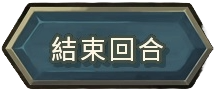
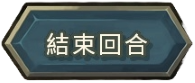
能量、回合

diff --git a/windowDemo.java b/windowDemo.java
@@ -31,6 +31,7 @@ public class windowDemo extends JFrame {
     private JLabel monsterhpNumber;
     private JLabel nextLabel;
     private JLabel energyLabel;
+    private JLabel energyNumber;
     private int[] pass =  new int[4];
     private Point initialClick;
     private Point initialPosition;
@@ -45,6 +46,8 @@ public class windowDemo extends JFrame {
     private JLabel deckNumber;
     private int HP = 80;
     private int monsterHP = 20;
+    private int energy;
+    private int round = 0;
     public windowDemo() {
         init();
     }
@@ -169,56 +172,12 @@ public class windowDemo extends JFrame {
                     hideIcon();
                     iconLabel1.setIcon(new ImageIcon("image/icon1_new.png"));
                     //關卡內容
-                    monsterLabel = new JLabel(new ImageIcon("image/monster1.png"));
-                    monsterLabel.setBounds(1050, 100, 400, 400);
-                    getLayeredPane().add(monsterLabel, new Integer(Integer.MIN_VALUE + 3));
-
-                    manLabel = new JLabel(new ImageIcon("image/fighter.png"));
-                    manLabel.setBounds(45, 95, 500, 500);
-                    getLayeredPane().add(manLabel, new Integer(Integer.MIN_VALUE + 3));
-
-                    discardDeckNumber = new JLabel(discardDeck + "");
-                    discardDeckNumber.setFont(new Font("Arial", Font.BOLD, 25));
-                    discardDeckNumber.setForeground(Color.WHITE);
-                    getLayeredPane().add(discardDeckNumber, new Integer(Integer.MIN_VALUE + 4));
-                    discardDeckNumber.setBounds(1325, 767, 50, 50);
-
-                    discardDeckLabel = new JLabel(new ImageIcon("image/棄牌堆.png"));
-                    discardDeckLabel.setBounds(1300, 700, 156, 133);
-                    getLayeredPane().add(discardDeckLabel, new Integer(Integer.MIN_VALUE + 3));
-
-                    deckLabel = new JLabel(new ImageIcon("image/牌堆.png"));
-                    deckLabel.setBounds(10, 700, 148, 135);
-                    getLayeredPane().add(deckLabel, new Integer(Integer.MIN_VALUE + 3));
-                    
-                    deckNumber = new JLabel((attackNumber + defendNumber + bashNumber + muscleNumber) + "");
-                    deckNumber.setFont(new Font("Arial", Font.BOLD, 25));
-                    deckNumber.setForeground(Color.WHITE);
-                    getLayeredPane().add(deckNumber, new Integer(Integer.MIN_VALUE + 4));
-                    deckNumber.setBounds(113, 767, 50, 50);
-
-                    hpLabel = new JLabel(new ImageIcon("image/hp.png"));
-                    hpLabel.setBounds(180, 500, 289, 20);
-                    getLayeredPane().add(hpLabel, new Integer(Integer.MIN_VALUE + 3));
-
-                    hpNumber = new JLabel(HP + "/80");
-                    hpNumber.setFont(new Font("Arial", Font.BOLD, 25));
-                    hpNumber.setForeground(Color.WHITE);
-                    getLayeredPane().add(hpNumber, new Integer(Integer.MIN_VALUE + 4));
-                    hpNumber.setBounds(290, 485, 120, 50);
-
-                    monsterhpLabel = new JLabel(new ImageIcon("image/hp.png"));
-                    monsterhpLabel.setBounds(1120, 500, 289, 20);
-                    getLayeredPane().add(monsterhpLabel, new Integer(Integer.MIN_VALUE + 3));
-
-                    monsterhpNumber = new JLabel(monsterHP + "/20");
-                    monsterhpNumber.setFont(new Font("Arial", Font.BOLD, 25));
-                    monsterhpNumber.setForeground(Color.WHITE);
-                    getLayeredPane().add(monsterhpNumber, new Integer(Integer.MIN_VALUE + 4));
-                    monsterhpNumber.setBounds(1230, 485, 120, 50);
+                    energy = 3;
+                    callAllLabel();
 
                     deck = showRandomCards();
                     deckNumber.setText(deck + "");
+                    nextRound();
 
                     //
                     pass[0] = 1;
@@ -417,7 +376,7 @@ public class windowDemo extends JFrame {
             JLabel cardLabel = new JLabel(new ImageIcon(cards.get(i))); //手牌
             String cardType = cards.get(i);
             moveObject(cardLabel, cardType);
-            cardLabel.setBounds(170 + i * 210, getScreenHeight() - 330, 220, 288); // 设置卡片位置和大小
+            cardLabel.setBounds(190 + i * 210, getScreenHeight() - 330, 220, 288); // 设置卡片位置和大小
             this.getLayeredPane().add(cardLabel, new Integer(Integer.MIN_VALUE + 4));
             cardLabels.add(cardLabel);
             cardTypes.add(cardType);
@@ -426,7 +385,80 @@ public class windowDemo extends JFrame {
         cardPanel.repaint();
         return cards.size();
     }
+    @SuppressWarnings("removal")
+    private void callAllLabel(){
+        monsterLabel = new JLabel(new ImageIcon("image/monster1.png"));  //怪物
+        monsterLabel.setBounds(1050, 100, 400, 400);
+        getLayeredPane().add(monsterLabel, new Integer(Integer.MIN_VALUE + 3));
 
+        manLabel = new JLabel(new ImageIcon("image/fighter.png")); //角色
+        manLabel.setBounds(45, 95, 500, 500);
+        getLayeredPane().add(manLabel, new Integer(Integer.MIN_VALUE + 3));
+
+        discardDeckLabel = new JLabel(new ImageIcon("image/棄牌堆.png")); //棄牌堆
+        discardDeckLabel.setBounds(1300, 700, 156, 133);
+        getLayeredPane().add(discardDeckLabel, new Integer(Integer.MIN_VALUE + 3));
+
+        discardDeckNumber = new JLabel(discardDeck + ""); //棄牌堆數量
+        discardDeckNumber.setFont(new Font("Arial", Font.BOLD, 25)); 
+        discardDeckNumber.setForeground(Color.WHITE);
+        getLayeredPane().add(discardDeckNumber, new Integer(Integer.MIN_VALUE + 4));
+        discardDeckNumber.setBounds(1325, 767, 50, 50);
+
+        deckLabel = new JLabel(new ImageIcon("image/牌堆.png")); //牌堆
+        deckLabel.setBounds(10, 700, 148, 135);
+        getLayeredPane().add(deckLabel, new Integer(Integer.MIN_VALUE + 3));
+        
+        deckNumber = new JLabel((attackNumber + defendNumber + bashNumber + muscleNumber) + ""); //牌堆數量
+        deckNumber.setFont(new Font("Arial", Font.BOLD, 25));
+        deckNumber.setForeground(Color.WHITE);
+        getLayeredPane().add(deckNumber, new Integer(Integer.MIN_VALUE + 4));
+        deckNumber.setBounds(113, 767, 50, 50);
+
+        hpLabel = new JLabel(new ImageIcon("image/hp.png")); //HP
+        hpLabel.setBounds(180, 500, 289, 20);
+        getLayeredPane().add(hpLabel, new Integer(Integer.MIN_VALUE + 3));
+
+        hpNumber = new JLabel(HP + "/80"); //HP數字
+        hpNumber.setFont(new Font("Arial", Font.BOLD, 25));
+        hpNumber.setForeground(Color.WHITE);
+        getLayeredPane().add(hpNumber, new Integer(Integer.MIN_VALUE + 4));
+        hpNumber.setBounds(290, 485, 120, 50);
+
+        monsterhpLabel = new JLabel(new ImageIcon("image/hp.png")); //怪物HP
+        monsterhpLabel.setBounds(1120, 500, 289, 20);
+        getLayeredPane().add(monsterhpLabel, new Integer(Integer.MIN_VALUE + 3));
+
+        monsterhpNumber = new JLabel(monsterHP + "/20"); //怪物HP數量
+        monsterhpNumber.setFont(new Font("Arial", Font.BOLD, 25));
+        monsterhpNumber.setForeground(Color.WHITE);
+        getLayeredPane().add(monsterhpNumber, new Integer(Integer.MIN_VALUE + 4));
+        monsterhpNumber.setBounds(1230, 485, 120, 50);
+
+        nextLabel = new JLabel(new ImageIcon("image/next.png")); //結束回合
+        nextLabel.setBounds(1290, 570, 195, 83);
+        getLayeredPane().add(nextLabel, new Integer(Integer.MIN_VALUE + 4));
+
+        energyLabel = new JLabel(new ImageIcon("image/energy.png")); //能量圖示
+        energyLabel.setBounds(10, 530, 130, 131);
+        getLayeredPane().add(energyLabel, new Integer(Integer.MIN_VALUE + 4));
+
+        energyNumber = new JLabel(energy + "/3"); //能量數量
+        energyNumber.setFont(new Font("Arial", Font.BOLD, 35));
+        energyNumber.setForeground(Color.WHITE);
+        getLayeredPane().add(energyNumber, new Integer(Integer.MIN_VALUE + 5));
+        energyNumber.setBounds(52, 570, 120, 50);
+
+    }
+    private void nextRound() {
+        nextLabel.addMouseListener(new MouseAdapter() {
+            @Override
+            public void mouseClicked(MouseEvent e) {
+                JOptionPane.showMessageDialog(null, "Next Round!");
+                round ++;
+            }
+        });
+    }
     private int getScreenWidth() {
         return Toolkit.getDefaultToolkit().getScreenSize().width;
     }
